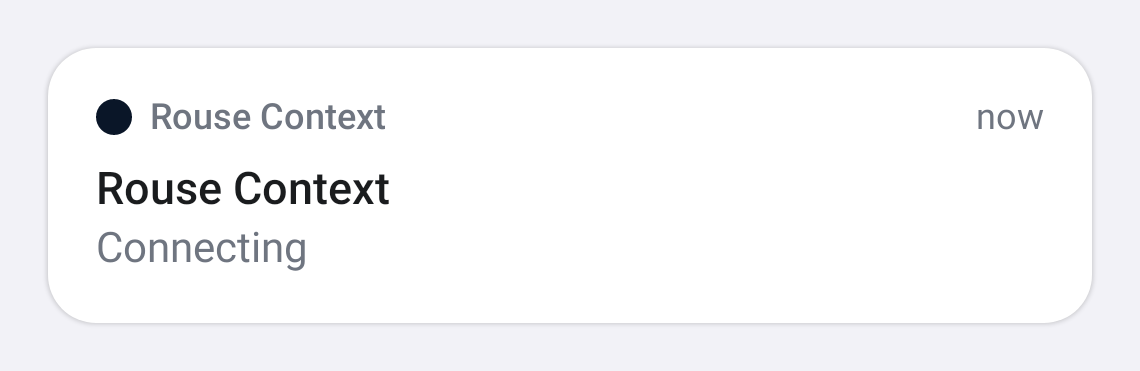
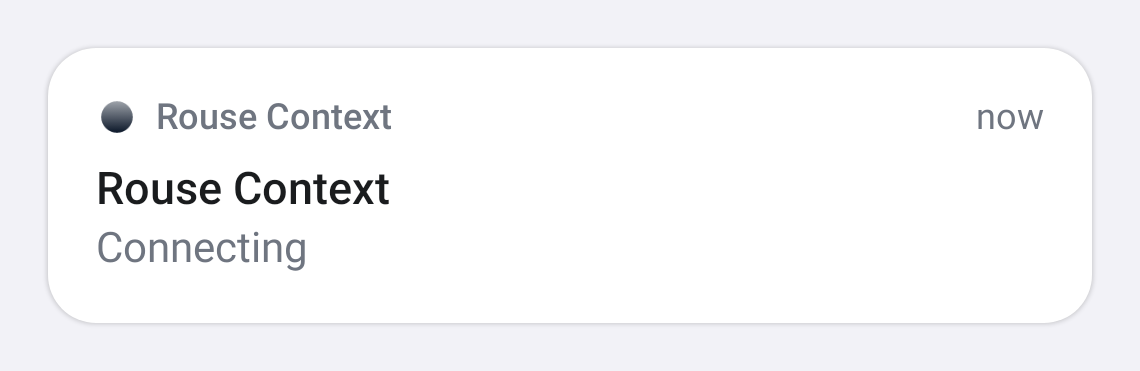
Render tinted smallIcon in NotificationCard preview (#334)
The preview card was drawing a plain colored circle in the header instead
of the actual notification smallIcon. Load the drawable from
`notification.smallIcon`, rasterize, and tint with the notification's
`color` to match what the system shade renders.

Regenerated all 26 catalog PNGs. Fallback (plain circle) preserved for
notifications that have no smallIcon.

Changed region(s): [[0.0614, 0.2668, 0.3684, 0.3854]]

diff --git a/notifications/src/test/java/com/rousecontext/notifications/preview/NotificationCard.kt b/notifications/src/test/java/com/rousecontext/notifications/preview/NotificationCard.kt
@@ -1,6 +1,7 @@
 package com.rousecontext.notifications.preview
 
 import android.app.Notification
+import androidx.compose.foundation.Image
 import androidx.compose.foundation.background
 import androidx.compose.foundation.layout.Arrangement
 import androidx.compose.foundation.layout.Box
@@ -20,13 +21,18 @@ import androidx.compose.material3.HorizontalDivider
 import androidx.compose.material3.Text
 import androidx.compose.material3.TextButton
 import androidx.compose.runtime.Composable
+import androidx.compose.runtime.remember
 import androidx.compose.ui.Alignment
 import androidx.compose.ui.Modifier
 import androidx.compose.ui.draw.clip
 import androidx.compose.ui.graphics.Color
+import androidx.compose.ui.graphics.ColorFilter
+import androidx.compose.ui.graphics.asImageBitmap
+import androidx.compose.ui.platform.LocalContext
 import androidx.compose.ui.text.font.FontWeight
 import androidx.compose.ui.unit.dp
 import androidx.compose.ui.unit.sp
+import androidx.core.graphics.drawable.toBitmap
 
 private data class ShadeColors(
     val background: Color,
@@ -90,7 +96,7 @@ fun NotificationCard(
             )
         ) {
             Column(modifier = Modifier.padding(16.dp)) {
-                NotificationHeader(appName, subText, colors)
+                NotificationHeader(appName, subText, colors, notification)
                 Spacer(Modifier.height(8.dp))
                 NotificationContent(title, text, colors)
                 NotificationActions(actions, colors)
@@ -100,17 +106,40 @@ fun NotificationCard(
 }
 
 @Composable
-private fun NotificationHeader(appName: String, subText: String?, colors: ShadeColors) {
+private fun NotificationHeader(
+    appName: String,
+    subText: String?,
+    colors: ShadeColors,
+    notification: Notification
+) {
+    val context = LocalContext.current
+    val iconBitmap = remember(notification) {
+        runCatching {
+            notification.smallIcon
+                ?.loadDrawable(context)
+                ?.toBitmap(width = 48, height = 48)
+                ?.asImageBitmap()
+        }.getOrNull()
+    }
     Row(
         verticalAlignment = Alignment.CenterVertically,
         modifier = Modifier.fillMaxWidth()
     ) {
-        Box(
-            modifier = Modifier
-                .size(12.dp)
-                .clip(CircleShape)
-                .background(colors.accent)
-        )
+        if (iconBitmap != null) {
+            Image(
+                bitmap = iconBitmap,
+                contentDescription = null,
+                colorFilter = ColorFilter.tint(colors.accent),
+                modifier = Modifier.size(14.dp)
+            )
+        } else {
+            Box(
+                modifier = Modifier
+                    .size(12.dp)
+                    .clip(CircleShape)
+                    .background(colors.accent)
+            )
+        }
         Spacer(Modifier.width(6.dp))
         Text(
             text = appName,
